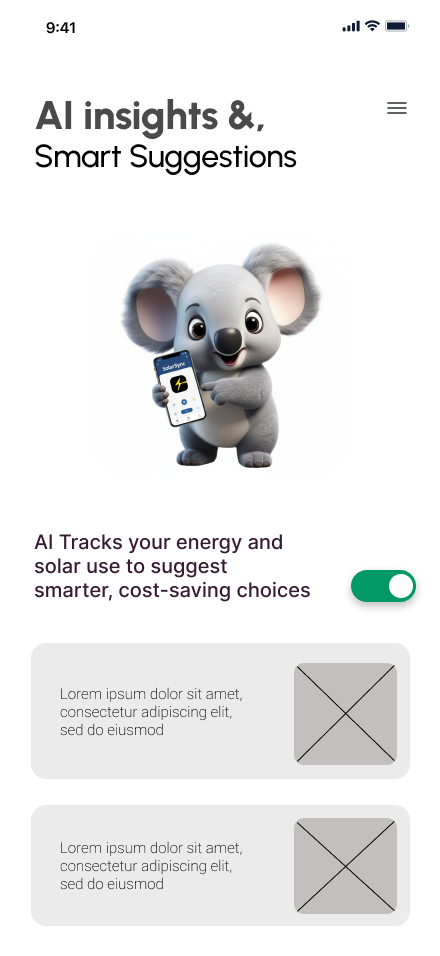
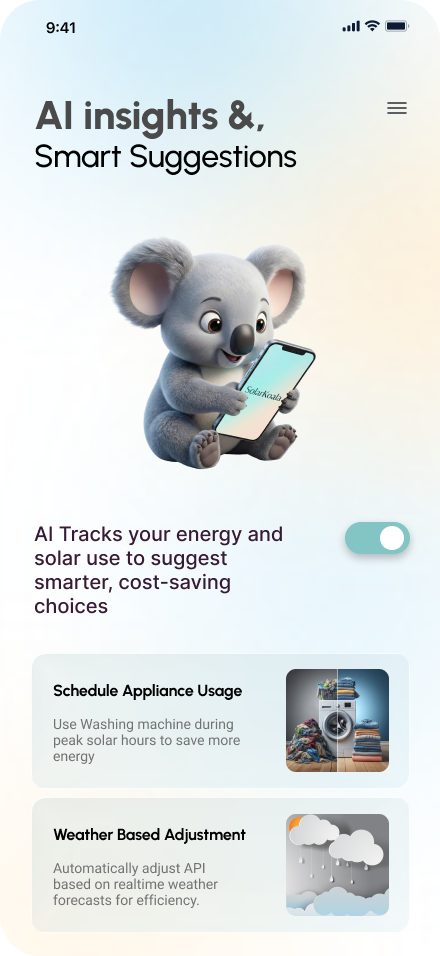
redesign

diff --git a/src/components/Hero.tsx b/src/components/Hero.tsx
@@ -1,5 +1,8 @@
 import { motion } from 'framer-motion';
 import './Hero.css';
+import Home from '/home.png';
+import light from '/light.png';
+import dark from '/dark.png';
 
 interface HeroProps {
   isDark: boolean;
@@ -56,7 +59,11 @@ const Hero = ({ isDark, toggleTheme }: HeroProps) => {
           whileTap={{ scale: 0.95 }}
           aria-label="Toggle theme"
         >
-          {isDark ? '☀' : '🌙'}
+          <img 
+            src={isDark ? light : dark} 
+            alt="theme toggle" 
+            style={{ width: '50px', height: '50px', borderRadius: '100px' }}
+          />
         </motion.button>
 
         <motion.div
@@ -64,7 +71,7 @@ const Hero = ({ isDark, toggleTheme }: HeroProps) => {
           animate={{ opacity: 1, y: 0 }}
           transition={{ duration: 0.8, delay: 0.2 }}
         >
-          <h1 className="hero-title">SOLAR SYNC</h1>
+          <h1 className="hero-title">SolarKoala</h1>
           <p className="hero-tagline">Your Solar Power, Perfectly Understood.</p>
           <p className="hero-subtitle">Launching Soon in Sri Lanka.</p>
 
@@ -87,52 +94,7 @@ const Hero = ({ isDark, toggleTheme }: HeroProps) => {
         >
           <div className="phone-frame">
             <div className="phone-screen">
-              <div className="mockup-content">
-                <div className="status-bar">
-                  <span>9:41</span>
-                  <div className="status-icons">
-                    <span>📶</span>
-                    <span>🔋</span>
-                  </div>
-                </div>
-                <div className="app-header">
-                  <h2>Solar Sync</h2>
-                </div>
-                <div className="dashboard-widget">
-                  <div className="power-circle">
-                    <svg viewBox="0 0 100 100" className="circular-progress">
-                      <circle cx="50" cy="50" r="40" fill="none" stroke="var(--border-color)" strokeWidth="8" />
-                      <motion.circle
-                        cx="50"
-                        cy="50"
-                        r="40"
-                        fill="none"
-                        stroke="var(--accent-primary)"
-                        strokeWidth="8"
-                        strokeLinecap="round"
-                        strokeDasharray="251.2"
-                        initial={{ strokeDashoffset: 251.2 }}
-                        animate={{ strokeDashoffset: 62.8 }}
-                        transition={{ duration: 2, delay: 1 }}
-                      />
-                    </svg>
-                    <div className="power-text">
-                      <div className="power-value">4.2</div>
-                      <div className="power-unit">kW</div>
-                    </div>
-                  </div>
-                  <div className="stats-grid">
-                    <div className="stat-item">
-                      <span className="stat-label">Today</span>
-                      <span className="stat-value">28.5 kWh</span>
-                    </div>
-                    <div className="stat-item">
-                      <span className="stat-label">This Month</span>
-                      <span className="stat-value">642 kWh</span>
-                    </div>
-                  </div>
-                </div>
-              </div>
+              <img src={Home} alt="home.png" className="heroImage"/>
             </div>
           </div>
         </motion.div>

diff --git a/src/components/FeatureMockups.tsx b/src/components/FeatureMockups.tsx
@@ -6,17 +6,17 @@ const FeatureMockups = () => {
     {
     title: 'Whole Home Dashboard',
     description: 'Unified view of your energy generation, storage, and consumption',
-    image: '/rest.png',
+    image: '/home.png',
   },
     {
       title: 'Usage Analytics',
       description: 'Breakdown of energy consumption by appliance and time of day',
-      image: '/graph.png',
+      image: '/ai.png',
     },
     {
       title: 'Smart Energy Assistant',
       description: 'AI-driven tips to maximize savings and efficiency automatically',
-      image: '/ai.png',
+      image: '/battery.png',
     },
     {
       title: 'Climate Aware Planning',
@@ -34,7 +34,7 @@ const FeatureMockups = () => {
           viewport={{ once: true }}
           transition={{ duration: 0.6 }}
         >
-          <h2 className="section-title">Experience Solar Sync</h2>
+          <h2 className="section-title">Experience SolarKoala</h2>
           <p className="section-subtitle">
             Every screen designed with precision and purpose.
           </p>

diff --git a/src/components/SriLankaFocus.tsx b/src/components/SriLankaFocus.tsx
@@ -1,5 +1,6 @@
 import { motion } from 'framer-motion';
 import './SriLankaFocus.css';
+import koalaa from '/koalaa.png';
 
 const SriLankaFocus = () => {
   return (
@@ -38,6 +39,7 @@ const SriLankaFocus = () => {
             transition={{ duration: 0.6, delay: 0.4 }}
           >
             <div className="island-shape">
+              <img src={koalaa} alt="SolarKoala" className="koala-image" />
               <motion.div
                 className="sun-graphic"
                 animate={{
@@ -50,9 +52,8 @@ const SriLankaFocus = () => {
                   ease: "easeInOut"
                 }}
               >
-          
+                
               </motion.div>
-              
             </div>
           </motion.div>
         </motion.div>

diff --git a/src/components/Footer.tsx b/src/components/Footer.tsx
@@ -46,7 +46,7 @@ const Footer = () => {
           transition={{ duration: 0.6 }}
         >
           <div className="footer-brand">
-            <h3 className="footer-logo">SOLAR SYNC</h3>
+            <h3 className="footer-logo">SolarKoala</h3>
             <p className="footer-tagline">Your Solar Power, Perfectly Understood.</p>
           </div>
 
@@ -90,7 +90,7 @@ const Footer = () => {
         </motion.div>
 
         <div className="footer-bottom">
-          <p>&copy; Solar Sync 2025. All Rights Reserved.</p>
+          <p>&copy; SolarKoala 2025. All Rights Reserved.</p>
         </div>
       </div>
     </footer>

diff --git a/src/components/Features.tsx b/src/components/Features.tsx
@@ -34,7 +34,7 @@ const Features = () => {
           viewport={{ once: true }}
           transition={{ duration: 0.6 }}
         >
-          <h2 className="section-title">What Solar Sync Does</h2>
+          <h2 className="section-title">What SolarKoala Does</h2>
           <p className="section-subtitle">
             Intelligent solar energy management, simplified.
           </p>

diff --git a/src/components/NotifyMe.tsx b/src/components/NotifyMe.tsx
@@ -27,7 +27,7 @@ const NotifyMe = () => {
         >
           <h2 className="section-title">Get Notified</h2>
           <p className="section-subtitle">
-            Be the first to experience Solar Sync when we launch.
+            Be the first to experience SolarKoala when we launch.
           </p>
 
           {!submitted ? (

diff --git a/src/components/SriLankaFocus.css b/src/components/SriLankaFocus.css
@@ -49,6 +49,14 @@
   animation: morphShape 10s ease-in-out infinite;
 }
 
+.koala-image {
+  width: 200px;
+  height: 200px;
+  object-fit: contain;
+  position: relative;
+  z-index: 2;
+}
+
 @keyframes morphShape {
   0%, 100% {
     border-radius: 50% 40% 60% 50%;

diff --git a/src/components/Hero.css b/src/components/Hero.css
@@ -240,6 +240,13 @@
   color: var(--text-primary);
 }
 
+.heroImage {
+  width: 98%;
+  height: 98%;
+  object-fit: contain;
+  border-radius: 32px;
+}
+
 @media (max-width: 768px) {
   .hero-content {
     padding: 3rem 1.5rem;
